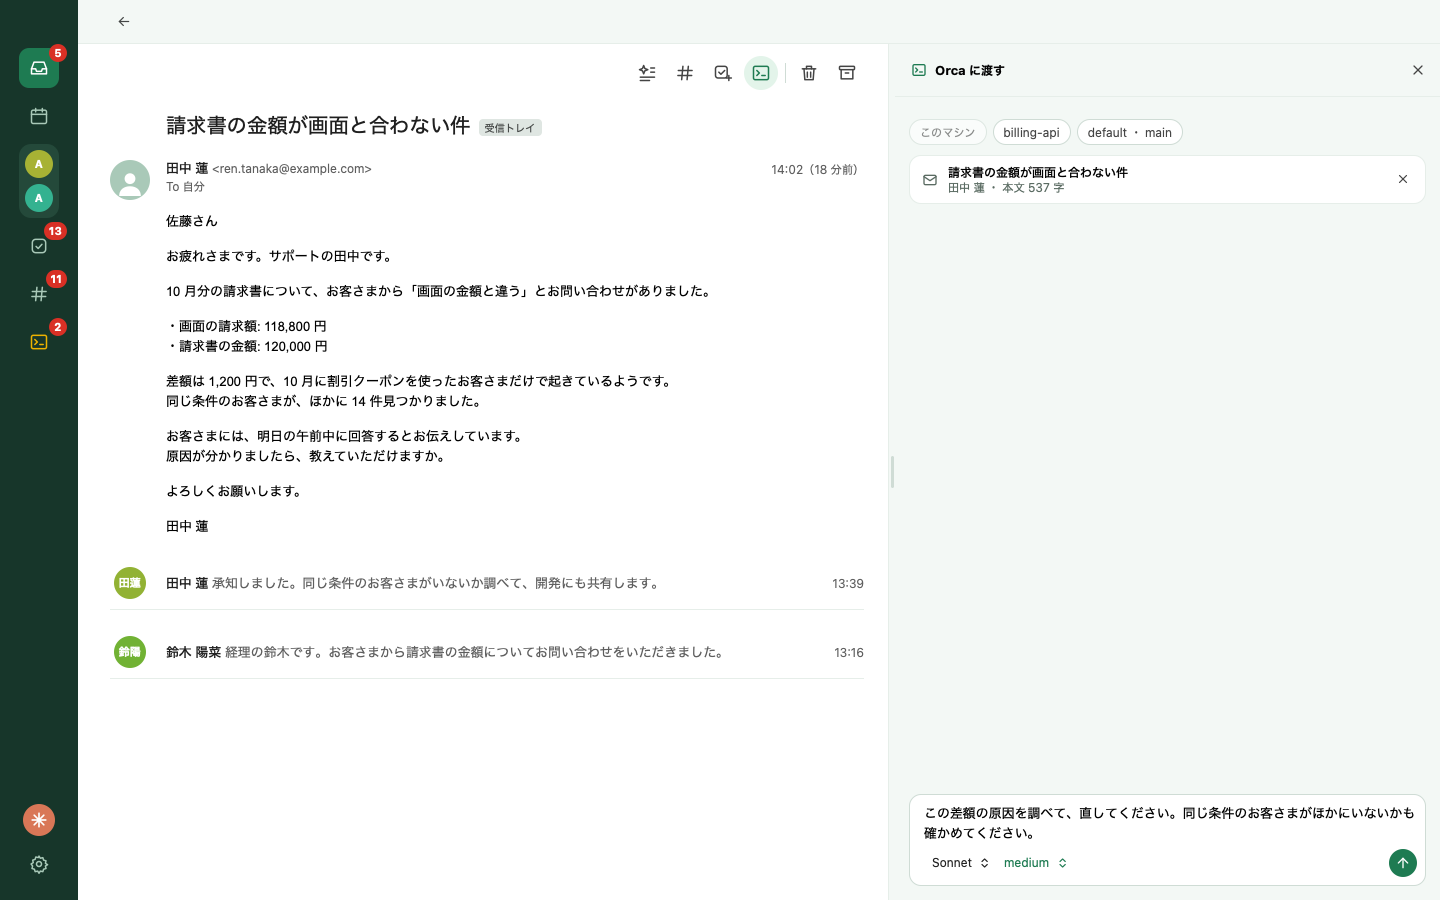
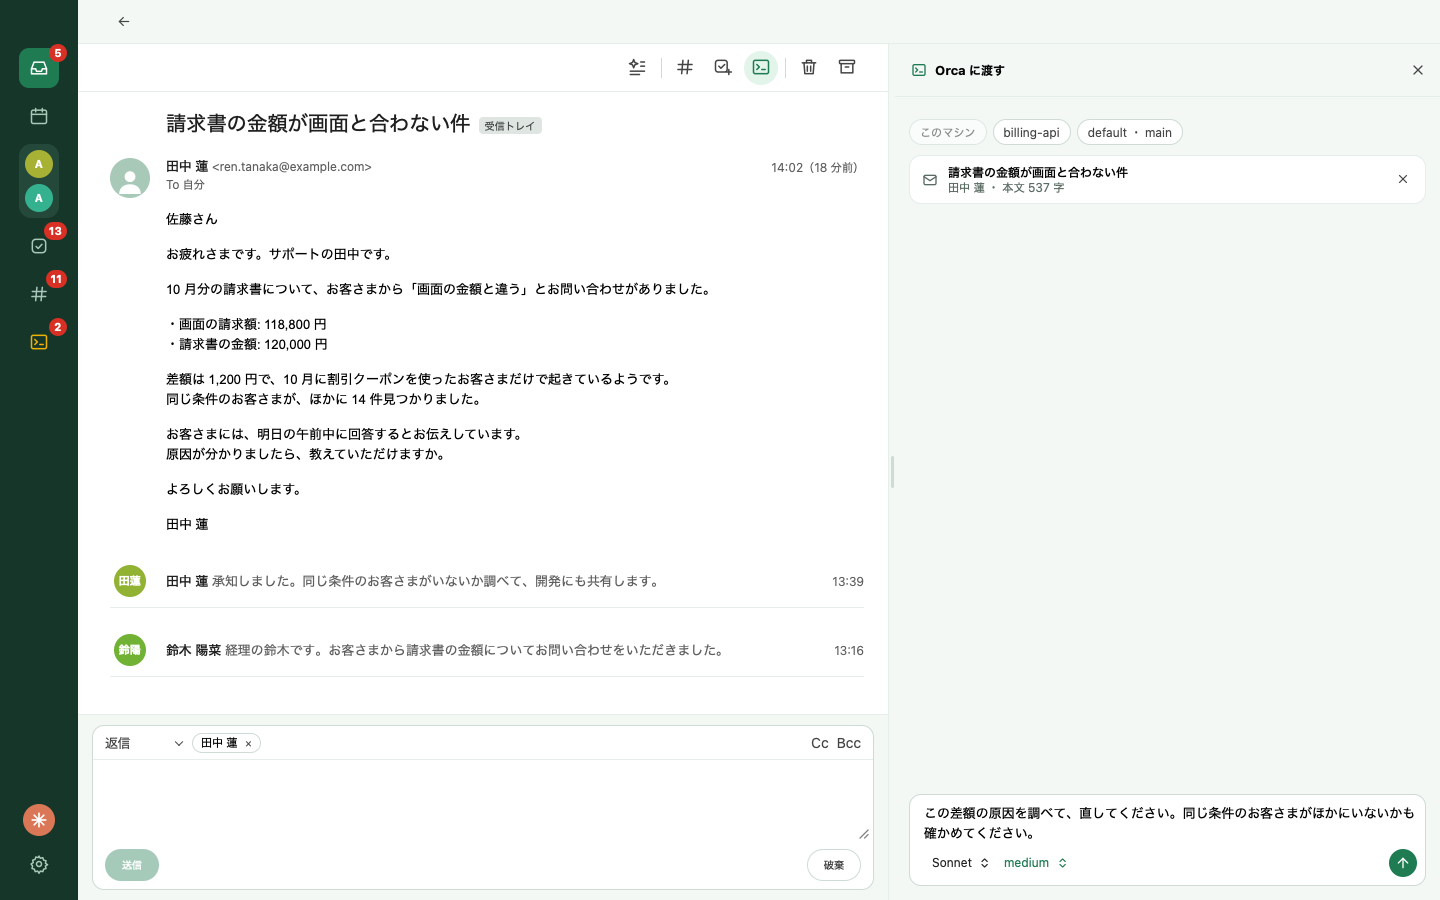
docs: v0.73.0 の CHANGELOG と機能の説明を書き、メールの写真を撮り直す (#336, #340, #346, #430, #488, #489)
返信欄（M-10）、新規作成（M-11）、スキルのタブ（A-32）、ログのタブを書く。
README とプライバシーポリシーの「送信はしない」を直し、
メールの詳細と受信トレイの写真を撮り直した。

diff --git a/docs/features.md b/docs/features.md
@@ -8,13 +8,15 @@ title: 機能
 
 - 複数の Gmail アカウントを追加し、全アカウントの受信トレイを 1 つの一覧で表示する（未読を上、既読を下に分け、それぞれ新しい順）。アカウントの追加と、各アカウントの状態と未読の件数の確認は、設定の「Google」タブで行う
 - スレッドを開いて本文を表示する（日本語の文字コードと HTML メールに対応。メールに埋め込まれた画像は表示する。外部の画像は既定では読み込まず、メッセージの「画像を表示」を押したときだけ取得し、その送信者のアドレスを覚えて、以後はその送信者のメッセージの画像を自動で表示する。自動で取得するのは、Gmail が付けた認証結果（Authentication-Results）が DMARC 合格、または From のドメインと一致する DKIM 署名の合格のメッセージだけで、そうでないメッセージは覚えた送信者でも「画像を表示」を押すまで取得しない。行を押すとすぐ詳細の画面に移り、件名と送り主を出して、本文が届くまで「読み込んでいます…」を出す（届くまで、戻る以外のボタンは押せない）。一度開いたスレッドを開き直すと、前に取った内容をすぐに出し、裏で Gmail に取り直して、返信が届いたときなど内容が変わっていたときだけ出し直す（開いた内容はメモリにだけ持ち、アプリを終了すると消える）。未読のスレッドを開くと既読になる。本文のリンクを押すと、既定のブラウザで開く。HTML の本文の中に文字で書かれた http と https の URL もリンクになる。本文は Gmail と同じ書体（Arial）で出し、メールが書体を指定していればそれに従う。テキスト形式のメールの本文も同じ書体で出し、設定でメールの画面の書体を選ぶとそれを使う。件名のすぐ上に、AI 要約（Claude Code を使えるときだけ）、Slack に貼る、Todo にする、Orca に渡す、ゴミ箱へ移動、アーカイブのボタンが右に寄せて 1 行に並び、本文をスクロールしても残る。上端の帯には「戻る」だけがある。複数のメッセージがあるスレッドでは、新しい順に並べ、最新のメッセージだけを一番上で開き、古いものは 1 行に畳んで、押すと開く）
+- スレッドの下に固定した返信欄から、返信を書いて送る（欄はメッセージの下にあり、メッセージはその上でスクロールするので、読みながら書ける。「返信」は最後のメッセージの差出人（Reply-To があればその宛先）に、「全員に返信」はその人と To のほかの人に送り、Cc の人を Cc に入れる。自分のアカウントは宛先に入れない。宛先はチップで並び、× で外せる。「Cc」「Bcc」を押すとその行が開き、アドレスを打って Enter かカンマを打つか、欄を離れるとチップになる。本文はテキスト。「送信」で、スレッドを受け取ったアカウントから、同じスレッドへの返信として送り、スレッドを読み直して、送ったメールを出す。失敗したときはエラーを出し、書いた内容は残る。「破棄」で欄を空にする。スレッドを離れると書きかけは消え、下書きは保存しない。ファイルは添付できない。Gmail の `users.messages.send` で送り、スコープは `gmail.modify` のままなので、再ログインは要らない）
+- 受信トレイの見出しの「作成」（鉛筆のアイコン）で、新しいメールを書く画面を開く（ダイアログではなく、メールの画面の中に開く。「差出人」は送るアカウントで、アカウントが複数あれば選べる。「宛先」「Cc」「Bcc」は返信欄と同じチップで、その下に「件名」と本文（テキスト）がある。下に固定した帯の「送信」で送り、送れたら「送信しました」と出して受信トレイに戻る。失敗したときはエラーを出し、書いた内容は残る。「戻る」と「破棄」は、書いた内容を捨てて受信トレイに戻る。ファイルは添付できない）
 - スレッドをアーカイブする・ゴミ箱へ移動する（詳細画面のボタン、または一覧の行にマウスを乗せると出るボタン）。直前の 1 件は Cmd+Z（Windows では Ctrl+Z）かお知らせの「元に戻す」で戻せる
 - 一覧のチェックボックスで、スレッドを既読・未読にする（未読の行には緑の点が付く）。未読の行の上の見出し「未読」の右端の「すべて既読にする」で、一覧に出ている未読のスレッドをまとめて既読にでき（最大 4 件ずつ送る。失敗した行は未読に戻してエラーを出す）、通知の「元に戻す」で未読に戻せる
 - サイドメニューのアカウントのアイコンから、そのアカウントを cookapps から削除する（Google 側のアクセス権も取り消す。Gmail のメールは消えない）
 - 約 10 秒ごとに受信トレイを Gmail と同期し、新着や他の端末での既読化・アーカイブを自動で反映する。一覧の上のヘッダーに「受信トレイ」が付き（スクロールしても残る）。最初の読み込みが返るまでは「読み込んでいます…」、スレッドが 0 件のときは「受信トレイにスレッドはありません」を出す。読み込みに失敗したときは、一覧の上に「読み込めませんでした: …。自動でも読み直します」と「再読み込み」のボタンを出し（前の一覧があるときは一覧を残す。別の画面へ移って戻っても残り、次の読み込みが成功すると消える）、前の読み込みから 60 秒たつと自動で読み直し、続けて失敗するたびに間隔を倍にする（最長 5 分）。スレッドを開いている間に再ログインが必要になったときは、次の同期で一覧を読み直す
 - 同期で新着のメールが見つかると、ウィンドウの右下にカードを出す（差出人と件名、ゴミ箱へ移動・アーカイブ・詳細を開くのボタン。詳細を開くは他の画面からでもそのスレッドに移る。カードは最大 3 枚で、10 秒で消える（マウスやフォーカスが乗っている間は残る）。そのスレッドが既読になると（一覧やスレッドで既読にしたときも、他の端末で既読になったときも）すぐに消える。起動時の読み込みでは出さず、OS の通知も使わない）
 - 未読のスレッドの件数を、サイドメニューの受信トレイのボタンに表示する（0 件のときは消える。macOS の Dock のアイコンのバッジには、この件数と、Todo の期限が来た未完了の件数、Slack の未読の件数、Orca の確認待ちの件数の合計を表示する。期限の時刻が過ぎるとウィンドウが隠れていても自動で増える）
-- 設定は「Google」「カレンダー」「Todoist」「Slack」「Claude」「Orca」「フォント」「アップデート」の 8 つのタブに分かれ、開くと Google のタブが出る。「設定」の見出しとタブは、カードをスクロールしても上に残る
+- 設定は「Google」「カレンダー」「Todoist」「Slack」「Claude」「スキル」「Orca」「フォント」「アップデート」「ログ」の 10 個のタブに分かれ、開くと Google のタブが出る。「設定」の見出しとタブは、カードをスクロールしても上に残る
 - 全アカウントの Google Calendar の予定を、1 つの週表示にまとめて表示する（閲覧のみ。サイドメニューのカレンダーのアイコンで開く）。自分が未定と答えた予定は斜線、まだ返信していない予定は色を反転して表示する。週の始まりの曜日は、設定の「カレンダー」タブで日曜から土曜の中から選べる（初期値は日曜）
 - カレンダー画面の週表示の上の帯は Todo と同じ色で、左から「今日」、前後の週の矢印、「2026年11月」の形の月を並べる。月を押すと、その下に月のカレンダーが開き、日付を押すとその週を出す（パネルを畳んでいても使える）
 - カレンダー画面の週表示の左に「カレンダー」のパネルがあり、表示するカレンダーをチェックボックスで選ぶ。アカウントごとに、サイドバーと同じ頭文字の丸とメールアドレスの行の下に、「マイカレンダー」（自分が持ち主のカレンダー）と「他のカレンダー」（追加した他の人のカレンダー、祝日、会議室など）を字下げして並べ、チェックボックスはカレンダーの色になる。アカウントの行を押すと、そのアカウントのカレンダーを畳める。パネルの上には月のカレンダーがあり、日付を押すとその週を出す。切り替えるとすぐ週表示が変わり、選んだ状態はアプリの設定フォルダに保存する（Google 側の表示設定は書き換えない。まだ選んでいないカレンダーは Google 側の表示設定に従う）。見出しの横のボタンでパネルを畳むと、週表示が広がる。MCP サーバーの list_events も、ここで選んだカレンダーだけを読む
@@ -42,9 +44,11 @@ title: 機能
 - その要約のしかたの指示を、設定の Claude タブの「Todo の要約プロンプト」から開く画面で確認・編集し、デフォルトに戻せる。Claude Code との会話でも変更を頼める（変更案は差分で出て、「適用」と「保存」で確定する。頼みは複数行で書け、⌘Enter で送る。「クリア」で会話を消せる。頼みを書く欄の枠の中で、この会話のモデルと effort を切り替えられる。Slack のメッセージは送らない）
 - 設定の Claude タブの「モデルと effort」で、Claude Code に使わせるモデル（Haiku・Sonnet・Opus）と effort（low・medium・high・xhigh・max）を、Slack の要約、メールの要約、プロンプトの会話、Slack に貼る文章の校正、Slack のスレッドの相談、Orca に渡す要約、Todo の相談、Slack の相談の 8 つのそれぞれに選べる（初期値は Sonnet と medium、Slack のスレッドの相談だけ Sonnet と high。モデルを変えると、そのモデルの推奨の effort に切り替わる）
 - Claude Code は、Claude のサブスクリプションのほかに、Anthropic の API キーでも使える。設定の Claude タブで方式を選ぶ（API キーは呼び出しごとに課金される。キーに切り替えると、この端末の Claude Code はログアウトされる）
+- 設定の「スキル」タブで、スキルを作る・直す・消す。スキルは、Claude への依頼に添える指示を、前もって書いておく文章（左にスキルの一覧と「新しいスキル」、右に編集欄が並ぶ。編集欄には「名前」（半角の小文字、数字、ハイフンで 64 文字まで。保存したあとは変えられない）、「表示名」、「使う画面」（「Slack に貼る文章の校正」と「Slack のスレッドの相談」）、「説明」、「指示」がある。「保存」で設定フォルダの `claude-plugin/skills/{名前}/SKILL.md` に保存し、「削除」は確認のあとで完全に消す。依頼のときにスキルを選ぶ画面は、まだない）
 - 起動したときとカレンダーを開いたときは、前回取得した受信トレイ・予定・Todo を設定フォルダから先に表示し、取得が終わったら最新の内容に描き直す
 - 新しい版が GitHub Releases に出ると、右下にポップアップが現れ、設定のアイコンと、設定の「アップデート」タブに赤い点が付く。ポップアップの「更新して再起動」を押すと、新しい版をダウンロードして署名を確かめ、入れ替えて再起動する（古いアプリが終わってから新しいアプリを開く。macOS の Apple Silicon のみ。起動時と 5 分ごとに確認する）。「あとで」で閉じると、同じ版ではアプリを終了するまで出ない（新しい版が出れば、また出る）
 - 設定の「アップデート」タブに、いま動いている版を表示する。更新の方法は「手動」と「自動」から選べる（初期値は自動）。手動は上の動きで、自動は新しい版が見つかり次第、裏で入れ替える（再起動はしない。ポップアップが「新しい版の準備ができました」になり、「再起動」を押すと再起動する。再起動を待つあいだも確認を続け、入れ替えた版よりさらに新しい版が出ていれば、それを入れ替え直す。同じ版は取り直さない）。新しい版があるときは、このタブにも同じボタンが出る（「あとで」のあとも出る）。「今すぐ確認」で、すぐに確かめ直せる
+- 設定の「ログ」タブで、アプリのログを見る（新しい順の表で、時刻、重さ（エラー、警告、情報）、場所、内容を出す。「すべて」「エラー」「警告」で絞り込み、「コピー」で出ている行をコピーし、「フォルダを開く」でログのファイル `app-log.jsonl` があるフォルダを開く。ログはタブを出すたびに読む。ログに書き込む機能はまだないので、いまは「ログはありません」と出る）
 - サイドメニューの Orca のアイコンで、Orca のプロジェクトを一覧する（状態のアイコンとセッション数を出し、SSH の接続先も並べる）。作業中のセッションがあるプロジェクトを先頭に集め、その中は入った順に固定して、新しく作業が始まったものを先頭に入れる（作業が進んでも入れ替わらない）。その下に、セッションはあるが作業中ではないプロジェクトを並べ、セッションの無いプロジェクトはその下に並べる（どちらも最近動いた順）。プロジェクトの行は、矢印で開くとセッションごとの行が 1 段字下げして出る（複数のプロジェクトを同時に開ける。最初は作業中のプロジェクトがすべて開いていて、閉じたプロジェクトも、新しいセッションが作業を始めると開き直す。行を押すとそのタブを選び、タブを押すとその行が選ばれる）。入力待ちと、完了や中断で止まって未確認のセッションの件数はサイドメニューのアイコンに出す。作業中のセッションがある間は、アイコンが黄色になってゆっくり明滅する。一覧の幅はドラッグで変えられる。右のペインではプロジェクトのセッションをタブで切り替え、タブから閉じられる。タブはどれもセッションのターミナルで、そのまま打ち込める。最後のタブのすぐ右の＋から「Claude を起動」か「ターミナルを開く」を選ぶと（＋には「スクラッチパッド」もある）、左で選んでいるプロジェクトか SSH の接続先の worktree で始め、そのタブを開く（worktree が 2 件以上なら選ぶ画面を出す）。作業ペインは左右と上下に、数の制限なく分割できる。タブの右クリックの「右に分割」「下に分割」（ファイルのタブでは「パスのコピー」「相対パスをコピー」も出る）か、タブを別のペインの端へドラッグして分け、タブ列か中央へ落とすとそのペインに移る。ペインはそれぞれタブ列と＋を持ち、タブが無くなったペインは閉じる。ペインの境界をドラッグすると、隣り合う 2 つのペインの幅（上下の分割では高さ）を変えられる。分割と大きさはプロジェクトごとに保存し、開き直すと戻る。ターミナルで Claude を起動しても（終わってシェルに戻っても）、そのタブは同じペインの同じ位置に残る。接続先は左ペインの下端で、このマシンか Orca に保存したサーバーから選ぶ（`orca` CLI と Orca のペアリング情報を使う。アプリは履歴を保存しない）
 - Orca の一覧の上の検索欄に打った文字で、プロジェクトと SSH の接続先を名前で絞り込む（大文字と小文字は区別せず、合う文字は太字で出す）。Orca 画面のどこにいても Cmd+J（Windows では Ctrl+J）で検索欄に移れ、↓↑で行を動き、Enter で選び、Escape で消す
 - 保存したサーバーでは、一覧とターミナルを Orca から流れてくるデータで描く（読み直しの待ちがなく、色も出る）。ターミナルはペインの大きさに合わせて描き、打ち込むたびにその大きさを Orca に伝える。Orca 本体で同じターミナルを開いていても、Orca から届く大きさに従って描くので崩れない。打ったキーは、そのターミナルの表示をやめた直後（別のタブや画面に移った、ウィンドウが隠れた）でも、打ったターミナルへ送る

diff --git a/CHANGELOG.md b/CHANGELOG.md
@@ -3,6 +3,22 @@
 The newest version comes first.
 The project was named cookup until v0.14.6.
 
+## v0.73.0
+
+M-10: an open mail thread has a reply field fixed at the bottom, under the messages, so the thread can be read while the reply is written (#488). "返信" goes to the sender of the last message (to its Reply-To when it has one), and "全員に返信" also to the other people of its To, with its Cc in Cc; the account that reads the thread is left out. The recipients are chips, with × to take one off, and "Cc" and "Bcc" open a row each, where an address typed becomes a chip with Enter, with a comma or by leaving the field. The text is plain text. "送信" sends the reply from the account that received the thread, into the same thread, and the thread is read again with the sent mail in it; a failure shows its error and keeps what was written. "破棄" empties the field. What was written is dropped when the thread is left: no draft is saved.
+
+M-2: the row of icons above the subject of an open mail is 48px high, with a line under it, and a line divides the AI summary from "Slack に貼る" (#488).
+
+M-11: the header of the inbox has "作成", an icon with a pencil, that opens a screen for a new mail in the mail screen itself, not in a dialog (#489). It holds "差出人" (the account the mail goes from; a list to choose from when there are several accounts), "宛先" with "Cc" and "Bcc" as chips like the reply field's, "件名", the text (plain text) and "送信" in a band fixed at the bottom. A mail that went out shows "送信しました" and the inbox comes back; a failure shows its error and keeps what was written. "戻る" and "破棄" show the inbox again and drop what was written.
+
+A reply and a new mail go out with Gmail's `users.messages.send`. The scope the app already asks for, `gmail.modify`, is enough for it, so no account has to log in again. The app saves nothing of a mail it sends. Files cannot be attached.
+
+A-32: the settings have a tab "スキル", right of "Claude", that makes, changes and deletes skills: texts of instructions written once for the Claude calls of the "Slack に貼る" screen and of a Slack thread (#340). The skills are listed at the left, with "新しいスキル" under them, and the one pressed is edited at the right: "名前" (lower-case letters, digits and `-`, up to 64 characters; it cannot be changed once saved), "表示名", "使う画面", "説明" and "指示". "保存" writes the skill to `claude-plugin/skills/{name}/SKILL.md` in the config folder, and "削除" asks first and deletes it for good. No screen chooses a skill for a call yet.
+
+A-3, A-28: the settings have a tab "ログ", the last one, that shows the app's log (#430). It is a table, the newest line first, of the time, the weight ("エラー", "警告" or "情報"), the place and the text. "すべて", "エラー" and "警告" filter the lines, "コピー" copies the lines shown, and "フォルダを開く" opens the folder that holds `app-log.jsonl`. The log is read each time the tab is shown. Nothing writes to the log yet, so the tab says "ログはありません". The settings now have ten tabs.
+
+No change in what the app shows yet, as groundwork for coming features: an operation on a row or a tab of the Orca screen is sent to where that row is (this Mac or a saved environment), not to the target of the screen (#336); and the Claude calls of the "Slack に貼る" screen and of a Slack thread can run a skill, which is given to Claude Code alone, in a folder made for that call (#346).
+
 ## v0.72.1
 
 The Dock badge counts Slack and Orca too (#619). It is now the sum of the unread mail, the Todo tasks whose due moment has come, the unread Slack messages and the Orca sessions that wait for the user, so it shows a number when only Slack or Orca has one. It was the sum of mail and Todo alone.
